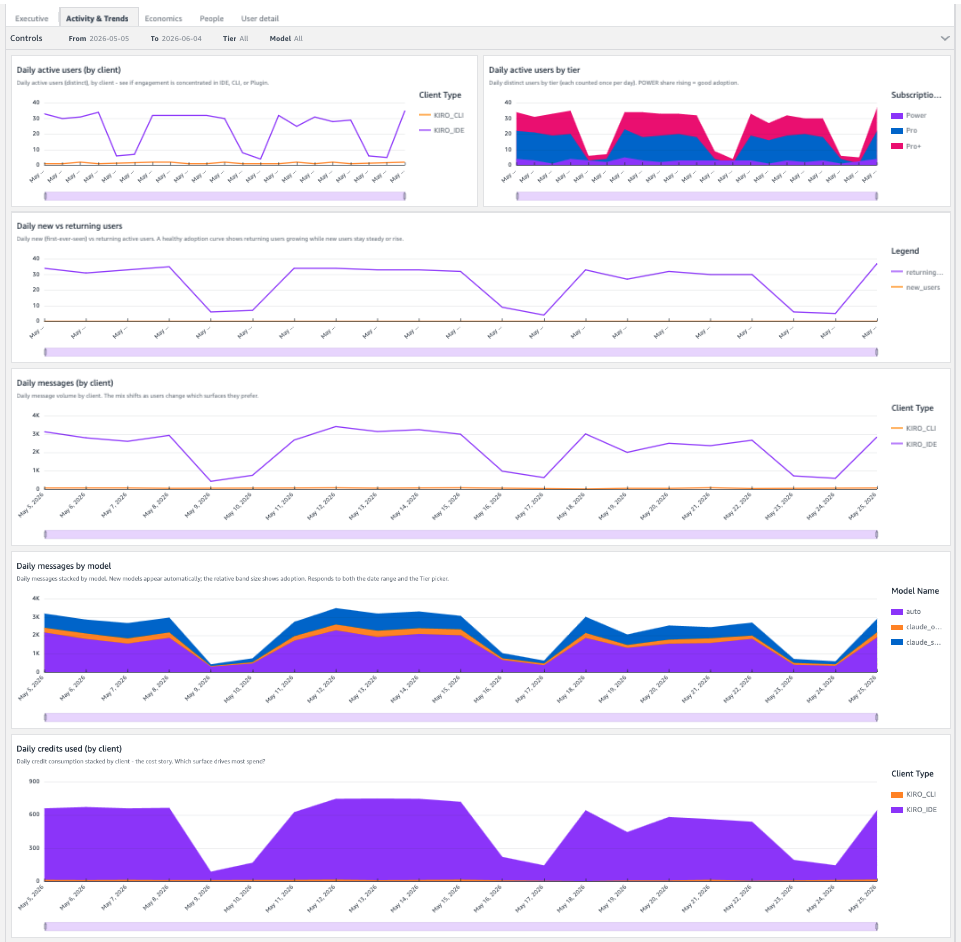
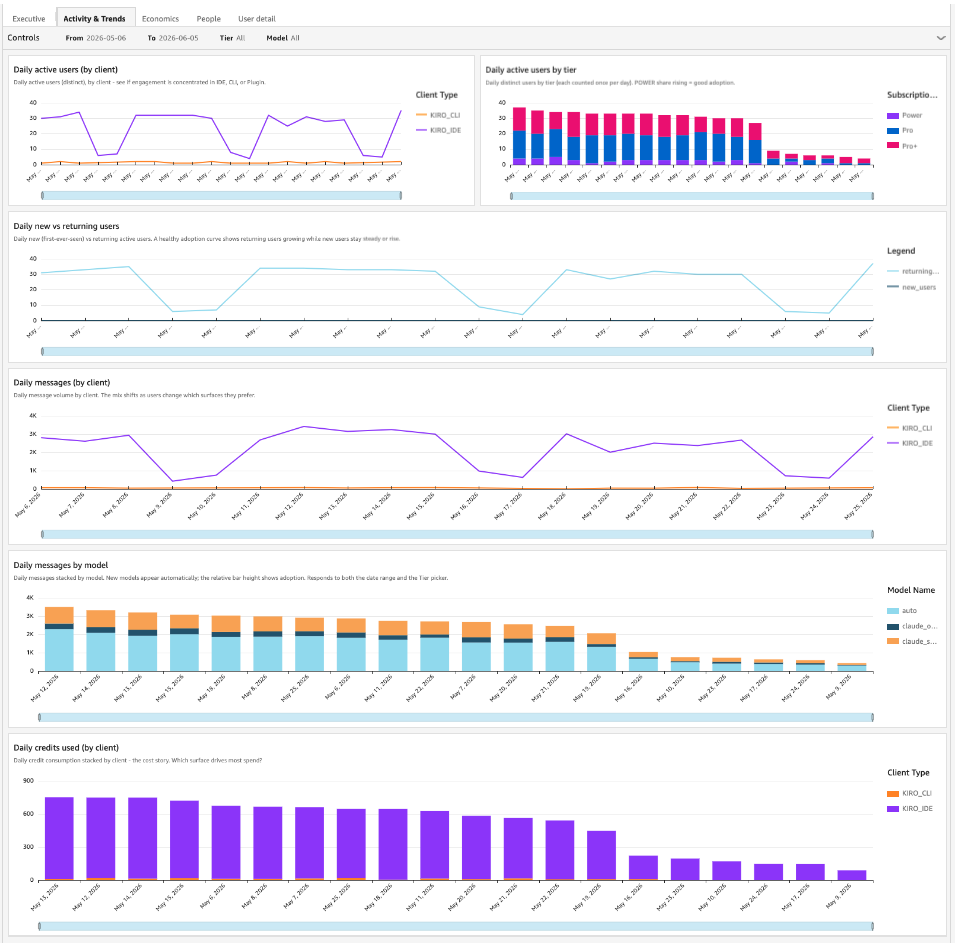
Activity & Trends: stacked bars over time; one-row-per-user tier in All Users
- Add _bar_time_stacked() and switch the credits-by-client, active-users-by-tier,
  and messages-by-model visuals from stacked area to stacked bar - sparse daily
  data reads as discrete bars instead of an area that exaggerates scattered points.
- Add a per-user constant user_tier column to the base view (MAX tier over the
  user's window, highest tier wins) and register it in the QuickSight dataset, so
  the All Users table shows one row per user even when they changed tier mid-period.
- Refresh activity.png and the README sheet descriptions to match.

diff --git a/scripts/create_dashboard.py b/scripts/create_dashboard.py
@@ -742,6 +742,51 @@ def _area(visual_id: str, title: str, dataset: str, date_col: str, value_col: st
     }
 
 
+def _bar_time_stacked(visual_id: str, title: str, dataset: str, date_col: str,
+                      value_col: str, stack_col: str | None = None):
+    """Vertical stacked bar over a daily date axis, stacked by `stack_col`.
+    Drop-in replacement for _area(): sparse data reads as discrete bars per
+    day instead of a filled area that exaggerates a few scattered points."""
+    field_wells = {
+        "Category": [{
+            "DateDimensionField": {
+                "FieldId": f"{visual_id}-d",
+                "Column": {"DataSetIdentifier": dataset, "ColumnName": date_col},
+                "DateGranularity": "DAY",
+            },
+        }],
+        "Values": [{
+            "NumericalMeasureField": {
+                "FieldId": f"{visual_id}-v",
+                "Column": {"DataSetIdentifier": dataset, "ColumnName": value_col},
+                "AggregationFunction": {"SimpleNumericalAggregation": "SUM"},
+            },
+        }],
+    }
+    bar_config = {
+        "BarsArrangement": "STACKED",
+        "Orientation": "VERTICAL",
+        "FieldWells": {"BarChartAggregatedFieldWells": field_wells},
+    }
+    if stack_col:
+        field_wells["Colors"] = [{
+            "CategoricalDimensionField": {
+                "FieldId": f"{visual_id}-c",
+                "Column": {"DataSetIdentifier": dataset, "ColumnName": stack_col},
+            },
+        }]
+        cmap = _color_map(f"{visual_id}-c", stack_col)
+        if cmap:
+            bar_config["VisualPalette"] = {"ColorMap": cmap}
+    return {
+        "BarChartVisual": {
+            "VisualId": visual_id,
+            "Title": {"Visibility": "VISIBLE", "FormatText": {"PlainText": title}},
+            "ChartConfiguration": bar_config,
+        },
+    }
+
+
 def _donut(visual_id: str, title: str, dataset: str, category_col: str, count_col: str):
     return {
         "PieChartVisual": {
@@ -1075,11 +1120,11 @@ def build_definition(account_id: str, region: str, resource_prefix: str) -> dict
                 _sub(_line("a-messages",    "Daily messages (by client)",     "tiers", "activity_date", "messages",      color_col="client_type"),
                      "Daily message volume by client. The mix shifts as users change which surfaces they prefer."),
                 # Single large stacked area for the headline cost story.
-                _sub(_area("a-credits",     "Daily credits used (by client)", "tiers", "activity_date", "credits_used", stack_col="client_type"),
+                _sub(_bar_time_stacked("a-credits",     "Daily credits used (by client)", "tiers", "activity_date", "credits_used", stack_col="client_type"),
                      "Daily credit consumption stacked by client - the cost story. Which surface drives most spend?"),
                 # Daily active users stacked by tier - replaces the earlier
                 # tier × day heatmap which read poorly with only 3 tiers.
-                _sub(_area("a-tier-trend", "Daily active users by tier", "heatmap", "activity_date", "active_users", stack_col="subscription_tier"),
+                _sub(_bar_time_stacked("a-tier-trend", "Daily active users by tier", "heatmap", "activity_date", "active_users", stack_col="subscription_tier"),
                      "Daily distinct users by tier (each counted once per day). POWER share rising = good adoption."),
                 # New vs returning active users per day - the adoption/onboarding
                 # signal. new_users / returning_users are separate columns on
@@ -1089,9 +1134,9 @@ def build_definition(account_id: str, region: str, resource_prefix: str) -> dict
                                  "activity_date",
                                  [("new_users", "New"), ("returning_users", "Returning")]),
                      "Daily new (first-ever-seen) vs returning active users. A healthy adoption curve shows returning users growing while new users stay steady or rise."),
-                # One stacked area for model usage - replaces the bar+line pair.
-                _sub(_area("a-models",      "Daily messages by model",        "models", "activity_date", "messages", stack_col="model_name"),
-                     "Daily messages stacked by model. New models appear automatically; the relative band size shows adoption. Responds to both the date range and the Tier picker."),
+                # One stacked bar for model usage - replaces the bar+line pair.
+                _sub(_bar_time_stacked("a-models",      "Daily messages by model",        "models", "activity_date", "messages", stack_col="model_name"),
+                     "Daily messages stacked by model. New models appear automatically; the relative bar height shows adoption. Responds to both the date range and the Tier picker."),
             ],
             # Reading flow: who's using -> what they're sending -> what it costs.
             "Layouts": [{"Configuration": _grid([
@@ -1121,9 +1166,19 @@ def build_definition(account_id: str, region: str, resource_prefix: str) -> dict
                 # to People for, so it leads the sheet. It's sortable by any
                 # column, which makes separate "top 10 by X" bars redundant -
                 # those were removed.
+                # Group by user_label + user_tier (NOT subscription_tier):
+                # subscription_tier is per-row in base, so a user who changed
+                # tier mid-window (e.g. Pro -> Pro+) would split into two rows.
+                # user_tier is a per-user CONSTANT (MAX over the window in the
+                # base view, so 'PRO_PLUS' > 'PRO' -> highest/most-recent tier
+                # wins) - grouping on it adds no extra rows, so each user is one
+                # row with usage metrics summed across whatever tier(s) they
+                # held in the selected range. A categorical MAX in the visual
+                # layer isn't possible (CategoricalMeasureField only allows
+                # DISTINCT_COUNT/COUNT), hence the data-layer constant column.
                 _sub(_table("p-all-users", "All users",
                            "base",
-                           dimensions=["user_label", "subscription_tier"],
+                           dimensions=["user_label", "user_tier"],
                            values=[
                                ("total_messages",       "SUM"),
                                ("chat_conversations",   "SUM"),
@@ -1132,7 +1187,7 @@ def build_definition(account_id: str, region: str, resource_prefix: str) -> dict
                                ("active_days_calc",     None),
                            ],
                            sort_by=("credits_used", "DESC")),
-                     "Every user, sortable by any column. Scoped to the date range selected above - pick a month to see that period's per-user activity. Click any row to open that user on the User detail sheet."),
+                     "Every user (one row per user; usage summed across the period even if their tier changed), sortable by any column. Scoped to the date range selected above. Click any row to open that user on the User detail sheet."),
                 _sub(_pie_count("p-segments", "Engagement segments (selected range)", "base", "segment_calc", "user_id"),
                      "Active users in the selected date range split by intensity: Power (≥20 active days or ≥1000 messages) / Active (≥8 days) / Light (≥1 day). Recomputes as you change the date range above - pick a month to segment that period's users."),
                 # Engagement funnel rendered as three KPI tiles over the

diff --git a/README.md b/README.md
@@ -198,9 +198,9 @@ aws quicksight describe-dashboard \
 The five sheets:
 
 * **Executive**: KPI sparklines (Active users, Messages, Credits, Seat utilization, Provisioned seats), daily overage credits, and a prior-vs-current 30d comparison by tier. Date-range picker at the top.
-* **Activity & Trends**: Daily lines for active users and messages by client, a new-vs-returning users trend, a stacked area for credits by client, daily active users by tier, and a model usage stacked area. Date-range, tier, and model pickers (the Tier picker now also filters the model visuals).
+* **Activity & Trends**: Daily lines for active users and messages by client, a new-vs-returning users trend, a stacked bar for credits by client, daily active users by tier, and a model usage stacked bar. Date-range, tier, and model pickers (the Tier picker now also filters the model visuals).
 * **Economics**: Users by tier, credit usage by tier (in-plan + overage), credits per user and per message, and a unit-economics table - all scoped to the selected window. Date-range and tier pickers.
-* **People**: Sortable All Users table, engagement segments donut, engagement funnel tiles (≥1 / ≥8 / ≥20 active days), top users by model, monthly cohort retention curve, and a week-over-week movers table with at-risk flag. Click a row in the All Users table to drill into that user on the User detail sheet. Date-range and Tier pickers - the All Users table, engagement-segments donut, funnel tiles, and top-users-by-model are scoped to the selected range, so you can pick a month (e.g. usage that resets on the 1st) and see that period's activity; the cohort retention curve and week-over-week movers keep their own trailing-window logic.
+* **People**: Sortable All Users table (one row per user - usage is summed across the selected period even if the user changed tier, with the tier column showing their highest/most-recent tier), engagement segments donut, engagement funnel tiles (≥1 / ≥8 / ≥20 active days), top users by model, monthly cohort retention curve, and a week-over-week movers table with at-risk flag. Click a row in the All Users table to drill into that user on the User detail sheet. Date-range and Tier pickers - the All Users table, engagement-segments donut, funnel tiles, and top-users-by-model are scoped to the selected range, so you can pick a month (e.g. usage that resets on the 1st) and see that period's activity; the cohort retention curve and week-over-week movers keep their own trailing-window logic.
 * **User detail**: Single-user drill-down. A lifetime profile strip at the top (plan tier, first/last active date, overage status, lifetime totals - not date-filtered) gives identity context; below it, messages, credits, and active days for the selected window, plus daily trends and model split. Pick a user from the dropdown or arrive via the People click-through. Date-range and model pickers. (Because the profile is lifetime, the sheet still shows who the user is even if they had no activity in the selected window.)
 
 ## How it works